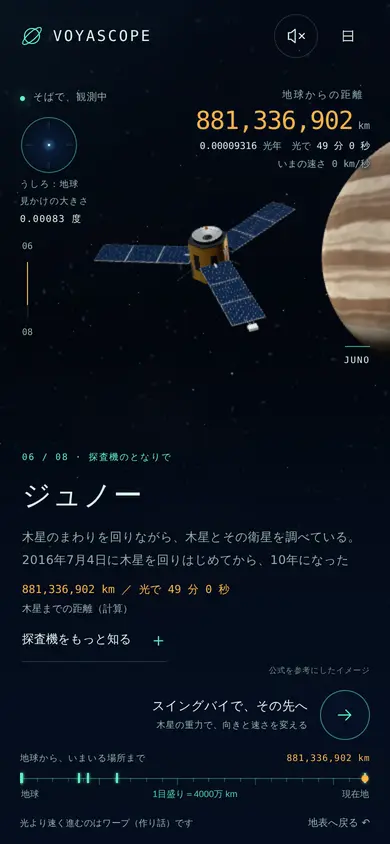
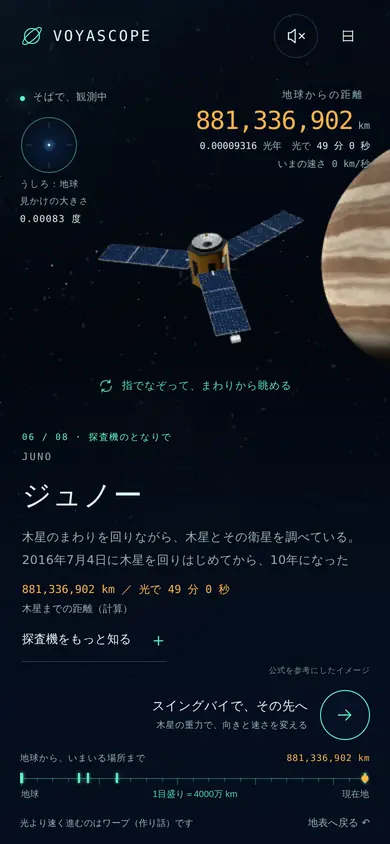
遠くを見る部屋の試作：スマホで名前に重ならない配置にし、そばで観測中は模型のまわりから眺められるようにした
オーナーの iPhone（Claude アプリの中・高さ約726px）の画面写真2枚と「そばで観測中のときは周辺から3Dを眺めるようにできる？」を受けて。

- スマホ
  - 着いた場所（天体・模型）は、上の距離の数字の下から説明の上までのあいだ（帯）に収める。低い画面では帯と説明を詰める
  - 黄色い線（章の目盛り）はスマホでは出さない。浮いていた英名の札はやめ、見出しと名前のあいだに1行で出す
  - 「ジェイムズ・ウェッブ宇宙望遠鏡」はスマホでは1行に縮める（PC は2行のまま）
  - 火星の望遠の窓は右はしに置き、下の文字も窓の右にそろえる。1光日の輪は少し小さくする
- そばで観測中
  - なぞる（PC はドラッグか ← → キー）と、模型（月・太陽・火星は天体、1光日はボイジャー1号）を中心にカメラが回る。回すほど少し引いて、模型の全体が帯に収まる
  - 火星では窓の中のローバーも回る。光（太陽の向き）は回さない
  - はじめて着いたときだけ案内を出す。なぞっても飛ばない（先へは「その先へ」）
  - 「その先へ」のボタンの丸をミントでゆっくり点滅させ、押すと角度を戻しながら航路に乗る（動きを減らす設定では点滅しない）
- PC：右下の文字（英名の札・案内・「公式を参考にしたイメージ」）を下のボタンから積む形にし、低いノート PC（高さ 720〜768）での重なりを直した
- 確かめたこと：スマホ 390×667・726・844 の8か所で、見出し・英名・名前と、模型・窓・黄色い線・輪が重ならない。模型のある5か所 × 7つの向きで模型が帯に収まる。PC 5サイズで右下が重ならない。8か所を順に（スマホ・PC）・動きを減らす設定。エラーなし、横のはみ出しなし
- 記録：docs/design/far-room-feel.md §7-8。写真：docs/screenshots/far-room-visual/merged-sp-4〜11・merged-pc-5・6

Claude-Session: https://claude.ai/code/session_018QcvrPpxiBmPj3b7sKfVgy

diff --git a/docs/design/far-room-visual-merged.html b/docs/design/far-room-visual-merged.html
@@ -91,7 +91,7 @@ svg.i { width: 20px; height: 20px; fill: none; stroke: currentColor; stroke-widt
 .rail-line { position: relative; width: 1px; height: 105px; background: var(--line); }
 .rail-line i { position: absolute; left: 0; top: 0; width: 1px; height: 0; background: var(--amber); }
 
-.scene-tag { position: absolute; left: 74%; top: 67%; display: flex; flex-direction: column; align-items: flex-start; font: 11px var(--mono); letter-spacing: 0.2em; color: var(--text); pointer-events: none; transition: opacity 0.4s; text-shadow: 0 1px 10px #050e1f; }
+.scene-tag { position: absolute; left: 74%; bottom: 250px; display: flex; flex-direction: column; align-items: flex-start; font: 11px var(--mono); letter-spacing: 0.2em; color: var(--text); pointer-events: none; transition: opacity 0.4s; text-shadow: 0 1px 10px #050e1f; }
 .scene-tag small { margin-top: 8px; font: 11px var(--body); letter-spacing: 0.06em; color: var(--dim); }
 .tag-line { width: 43px; height: 1px; margin-bottom: 14px; background: var(--mint); opacity: 0.65; }
 .journey.moving .scene-tag, .journey.rest .scene-tag { opacity: 0; }
@@ -133,8 +133,17 @@ svg.i { width: 20px; height: 20px; fill: none; stroke: currentColor; stroke-widt
 .footline { display: flex; align-items: center; justify-content: space-between; gap: 12px; }
 .footline p { margin: 0; font-size: 10px; color: var(--dim); }
 .footline button { font-size: 11px; color: var(--dim); }
-.model-note { position: absolute; right: var(--side); bottom: 204px; margin: 0; font-size: 9px; letter-spacing: 0.04em; color: var(--dim); opacity: 0; transition: opacity 0.4s; pointer-events: none; }
+.model-note { position: absolute; right: var(--side); bottom: 196px; margin: 0; font-size: 9px; letter-spacing: 0.04em; color: var(--dim); opacity: 0; transition: opacity 0.4s; pointer-events: none; }
 .journey.model-on .model-note { opacity: 0.75; } /* 探査機の模型が見えているあいだだけ */
+/* そばで観測中：ドラッグで周りから眺められることを知らせる（1回なぞったら出さない）。
+   PC の右下は、下のボタン（上の端が下から 186px）から上へ積む：注記 → この案内 → 英名の札。画面が低くても重ならない */
+.look-hint { position: absolute; left: 74%; bottom: 222px; display: flex; align-items: center; gap: 8px; margin: 0; font-size: 11px; letter-spacing: 0.06em; color: var(--mint); opacity: 0; transition: opacity 0.5s; pointer-events: none; text-shadow: 0 1px 8px #050e1f; }
+.look-hint svg { width: 16px; height: 16px; }
+.journey.encounter:not(.looked) .look-hint { opacity: 0.9; }
+.story-en { display: none; }
+/* 先へ進むボタン：そばで観測中は、ゆっくり脈打って「ここから先へ」と知らせる */
+@keyframes nudge { 0% { box-shadow: 0 0 0 0 rgba(94, 242, 194, 0.5); } 70% { box-shadow: 0 0 0 14px rgba(94, 242, 194, 0); } 100% { box-shadow: 0 0 0 0 rgba(94, 242, 194, 0); } }
+.journey.encounter .primary .arrow { border-color: var(--mint); animation: nudge 2.2s ease-out infinite; }
 .nogl { position: absolute; inset: 30% 10% auto; margin: 0; text-align: center; color: var(--dim); }
 
 /* 次の行き先の照準（3D の位置に重ねる） */
@@ -233,11 +242,16 @@ dialog .sub { margin: 0 0 14px; font-size: 12px; color: var(--dim); }
   .rear canvas { width: 58px; height: 58px; }
   .rear figcaption { font-size: 9px; }
   .rear figcaption b { font-size: 9.5px; }
-  .chapter-rail { left: 22px; top: 242px; gap: 10px; font-size: 9px; transition: opacity 0.4s; }
+  .chapter-rail { display: none; } /* 何番目かは、名前の上の「02 / 08」で分かる。名前と重ならないように出さない */
   .journey.lens-on .chapter-rail { opacity: 0; }
   .journey:not([data-mode="intro"]) .interaction-hint { display: none; }
   .rail-line { height: 56px; }
-  .scene-tag { left: auto; right: 20px; top: 41%; align-items: flex-end; font-size: 9px; letter-spacing: 0.12em; }
+  .scene-tag { display: none; } /* 英名は、名前の上の1行に出す（.story-en） */
+  .journey.encounter .story-en { display: block; margin-top: 6px; font: 10px/1.4 var(--mono); letter-spacing: 0.16em; color: var(--dim); }
+  .look-hint { left: 0; right: 0; top: calc(var(--band-bottom, 46%) - 26px); bottom: auto; justify-content: center; font-size: 10.5px; }
+  .journey.lens-on .look-hint { opacity: 0 !important; } /* 火星の望遠の窓の文字と重ならないように */
+  .journey.gate-on .look-hint { top: calc(var(--band-bottom, 46%) + 6px); } /* 1光日：輪の目盛りにかからないよう、輪と名前のあいだに */
+  .lens span { left: auto; right: 0; transform: translate(0, 8px); } /* 窓は右はしにあるので、文字は窓の右にそろえる（画面からはみ出さない） */
   .scene-tag small { display: none; }
   .tag-line { width: 25px; margin-bottom: 9px; }
   .story { left: 22px; right: 22px; width: auto; bottom: 194px; }
@@ -247,6 +261,8 @@ dialog .sub { margin: 0 0 14px; font-size: 12px; color: var(--dim); }
   .journey.encounter .story { bottom: 182px; }
   .journey.encounter .story h2 { margin: 10px 0; font-size: 29px; line-height: 1.4; letter-spacing: 0.025em; }
   .journey.encounter .story p { font-size: 12px; line-height: 1.9; }
+  .journey.encounter .story h2.fit { font-size: min(29px, calc((100vw - 44px) / 15.6)); white-space: nowrap; } /* ジェイムズ・ウェッブ宇宙望遠鏡（15文字）を1行に縮めて、説明が上へ伸びないように */
+  .story h2.fit .br-wide { display: none; }
   .journey[data-mode="end"] .story h2 { font-size: 34px; }
   .hero-meta { margin-top: 10px; font-size: 11px; line-height: 1.7; }
   .hero-meta small { font-size: 10px; }
@@ -291,6 +307,15 @@ dialog .sub { margin: 0 0 14px; font-size: 12px; color: var(--dim); }
   dialog { padding: 42px 22px 20px; }
   dialog h2 { font-size: 23px; }
   .fact { grid-template-columns: minmax(0, 1fr); }
+}
+/* 低いスマホ（アプリの中・ブラウザのバーが出ているとき）：説明を詰めて、着いた場所を見る場所を広げる */
+@media (max-width: 900px) and (max-height: 780px) {
+  .journey.encounter .story { bottom: 172px; }
+  .journey.encounter .story h2 { margin: 4px 0 6px; font-size: 25px; line-height: 1.35; }
+  .journey.encounter .story p { font-size: 11.5px; line-height: 1.75; }
+  .hero-meta { margin-top: 6px; font-size: 10.5px; line-height: 1.6; }
+  .hero-meta small { font-size: 9.5px; }
+  .detail-link { margin-top: 0; }
 }
 @media (max-width: 360px) {
   .story h2 { font-size: 38px; }
@@ -358,6 +383,7 @@ dialog .sub { margin: 0 0 14px; font-size: 12px; color: var(--dim); }
 
     <div class="story" id="story">
       <div class="eyebrow" id="eyebrow">A JOURNEY BEYOND / 光の旅</div>
+      <div class="story-en" id="story-en" aria-hidden="true"></div>
       <h2 id="hero-title">その先の、<br>まだ先へ。</h2>
       <p id="hero-text">光になって、地球の輪の外へ。<br>遠くで旅をつづける探査機に、会いにいこう。</p>
       <div class="hero-meta" id="hero-meta" hidden></div>
@@ -380,6 +406,7 @@ dialog .sub { margin: 0 0 14px; font-size: 12px; color: var(--dim); }
       <div class="footline"><p id="warp-note">光より速く進むのはワープ（作り話）です</p><button type="button" id="home">地表へ戻る ↶</button></div>
     </div>
     <p class="model-note">公式を参考にしたイメージ</p>
+    <p class="look-hint" id="look-hint" aria-hidden="true"><svg class="i" viewBox="0 0 24 24"><path d="M4 12a8 8 0 0 1 14-5.3M20 12a8 8 0 0 1-14 5.3M18 3v4h-4M6 21v-4h4"/></svg><span id="look-hint-text">ドラッグで、まわりから眺める</span></p>
   </section>
 
   <section class="atlas" id="ladder" aria-labelledby="ladder-title">
@@ -665,6 +692,7 @@ const reduceQuery = matchMedia("(prefers-reduced-motion: reduce)");
 let reduce = reduceQuery.matches;
 const coarse = matchMedia("(pointer: coarse)").matches;
 if (!coarse) $("hint-text").innerHTML = "ホイールか ↑ キーで自由に飛ぶ<small>↓ キーで地球の方へ。Home で地表へ</small>";
+$("look-hint-text").textContent = coarse ? "指でなぞって、まわりから眺める" : "ドラッグか ← → キーで、まわりから眺める";
 const say = (t) => { $("announcer").textContent = t; };
 
 // 距離のはしご（Codex 案の形）
@@ -712,13 +740,17 @@ function frameInfo() {
   const t = smooth01((aspect - 0.62) / (1.25 - 0.62)); // 0 = 縦長（スマホ）、1 = 横長（PC）
   const vfov = lerp(TUNE.FOV_PORTRAIT, TUNE.FOV_LANDSCAPE, t);
   const tv = Math.tan((vfov * DEG) / 2), th = tv * aspect;
+  // 縦長の画面：着いた場所（天体・機体）を、上の数字（地球からの距離）の下から、下の説明（名前・文）の上までのあいだに収める。
+  // 画面が低いとき（アプリの中・ブラウザのバーが出ているとき）は、小さく・上に置いて、名前に重ならないようにする
+  const bandTop = 150, bandBottom = Math.max(bandTop + 90, H - (H < 781 ? 400 : 440));
+  const band = bandBottom - bandTop, cy = bandTop + band / 2, rPx = Math.min(0.58 * (W / 2), band * 0.5);
   return {
-    W, H, aspect, t, vfov, tv, th, portrait: t < 0.5,
+    W, H, aspect, t, vfov, tv, th, portrait: t < 0.5, bandTop, bandBottom,
     // 着いたときに、見せたいもの（天体・機体）を置く画面の場所（中央が 0、右と上が +1）と見かけの半径
-    focus: { x: lerp(0.04, 0.4, t), y: lerp(0.36, 0.03, t) },
+    focus: { x: lerp(0.04, 0.4, t), y: lerp(1 - (2 * cy) / H, 0.03, t) },
     orbit: { x: lerp(1.8, 0.85, t), y: lerp(0.12, 0.05, t) }, // スイングバイの弧の上：天体の中心は画面の右の外。縁だけが右に見える
     around: { x: lerp(0.03, 0.3, t), y: lerp(0.3, 0.03, t) }, // 回りこむ弧の上：機体を見つづける
-    aR: lerp(Math.atan(0.58 * th), Math.atan(0.5 * tv), t),
+    aR: lerp(Math.atan((rPx / (W / 2)) * th), Math.atan(0.5 * tv), t),
     startPitch: lerp(14, 3, t) * DEG, // 出発のとき、地平線を見せるために下を向く
   };
 }
@@ -838,7 +870,7 @@ function lookAtNdc(camPos, target, x, y, out) {
   return out.multiply(qTmp.setFromAxisAngle(AX, -Math.atan(y * FI.tv)));
 }
 function encounterQuat(camPos, st, out) {
-  const f = st.lk.kind === "gate" ? { x: 0, y: FI.portrait ? 0.14 : 0.02 } : FI.focus;
+  const f = st.lk.kind === "gate" ? { x: 0, y: FI.portrait ? FI.focus.y : 0.02 } : FI.focus; // 縦長：上の数字と下の説明のあいだ
   return lookAtNdc(camPos, st.focus, f.x, f.y, out);
 }
 // 弧の上の向き。スイングバイは天体を画面の右はしに置いたまま回る（縁が流れ、空が回る）。回りこむときは機体を見つづける
@@ -1724,7 +1756,7 @@ if (renderer) {
   // 火星の地面と、パーサヴィアランス（公式を参考にしたイメージ）。太陽の光が、地面に影を落とす
   rover = holdModel(CRAFT.MODELS.perseverance(THREE, kit), 1.45);
   const roverInner = rover.userData.inner, half = (roverInner.userData.normalizedSize[1] * rover.scale.y) / 2;
-  rover.rotation.y = roverInner.userData.pose[1];
+  rover.rotation.y = rover.userData.spin = roverInner.userData.pose[1];
   lensScene.add(rover);
   const soil = new THREE.MeshStandardMaterial({ color: 0x7c4128, roughness: 1, metalness: 0 });
   soil.color.convertSRGBToLinear();
@@ -1746,6 +1778,7 @@ if (renderer) {
 // 航路と景色の置き場所を、画面の形に合わせて作り直す
 function placeScene() {
   FI = frameInfo();
+  journey.style.setProperty("--band-bottom", `${FI.bandBottom}px`);
   ROUTE = buildRoute();
   if (!renderer) return;
   // 航路の点
@@ -1778,9 +1811,15 @@ function placeScene() {
       inner.userData.spin = inner.userData.spin ?? 0;
       holder.quaternion.copy(q).multiply(new THREE.Quaternion().setFromEuler(e.set(...(lk.mPose ?? inner.userData.pose))));
       st.model = holder; st.objects.push(holder);
+      // 回りこんで見るときの中心（模型）と、引く量（どの向きから見ても、模型の全体が着いたときの円に収まるように）
+      st.pivot = holder.position;
+      const [sx, sy, sz] = inner.userData.normalizedSize;
+      st.lookOut = Math.max(1, 0.5 * Math.hypot(sx, sy, sz));
+    } else {
+      st.pivot = st.focus; st.lookOut = 1; // 天体だけ：球なので、どの向きでも同じ大きさ
     }
     if (lk.kind === "gate") {
-      gate.position.copy(st.center); gate.scale.setScalar(lk.R);
+      gate.position.copy(st.center); gate.scale.setScalar(lk.R * (FI.portrait ? 0.72 : 1)); // 縦長：輪を小さくして、上の数字と下の名前にかからないようにする
       gate.quaternion.setFromUnitVectors(AZ, st.normal);
       st.objects.push(gate);
     }
@@ -1793,6 +1832,7 @@ let s = 0; // 航路の上の位置（3D の単位）
 let v = 0; // 速さ（単位/秒。+ が遠くへ）
 let trip = null; // 案内つきの飛行 { from, to, t0, dur, target }
 let pointer = null;
+const look = { yaw: 0, pitch: 0, yawTo: 0, st: null }; // そばで観測中：ドラッグで回りこんで見る角度（ラジアン。yawTo はキーで回すときの行き先）と、その場所
 let snap = null; // 吸い寄せている場所
 let kickFov = 0;
 let lastT = performance.now(), raf = 0, visible = true, started = false;
@@ -1833,7 +1873,7 @@ function announce(st) {
 // いまの様子：intro（地表の近く）／encounter（場所のそば）／swing（弧の上）／travel（案内つきで飛行中）／free（自由に飛行中）／rest（途中で止まっている）／end
 function modeNow() {
   const sw = ROUTE.stops.find((st) => st.lk.kind !== "gate" && s > st.sE + 0.6 && s < st.sX + 1);
-  if (trip || pointer || Math.abs(v) > 0.5) return { mode: sw ? "swing" : trip ? "travel" : "free", st: sw };
+  if (trip || (pointer && !pointer.look) || Math.abs(v) > 0.5) return { mode: sw ? "swing" : trip ? "travel" : "free", st: sw };
   if (s < 0.3) return { mode: "intro" };
   if (s > ROUTE.len - 0.3) return { mode: "end" };
   const st = ROUTE.stops.find((x) => Math.abs(s - x.sE) < 0.6);
@@ -1844,13 +1884,29 @@ function modeNow() {
 // ---------- 操作：指・マウス・ホイール・キー（Claude 案と同じ） ----------
 viewport.addEventListener("pointerdown", (e) => {
   if (e.pointerType === "mouse" && e.button !== 0) return;
-  cancelTrip(); snap = null;
-  pointer = { id: e.pointerId, y: e.clientY };
+  const m = modeNow();
+  if (m.mode === "encounter" && renderer) {
+    // そばで観測中：なぞると、見せたもののまわりを回りこんで見る（ここでは飛ばない。先へは「その先へ」のボタンで）
+    pointer = { id: e.pointerId, x: e.clientX, y: e.clientY, look: true };
+    look.st = m.st;
+    journey.classList.add("looked");
+  } else {
+    cancelTrip(); snap = null;
+    pointer = { id: e.pointerId, y: e.clientY };
+  }
   viewport.setPointerCapture(e.pointerId);
   wake();
 });
 viewport.addEventListener("pointermove", (e) => {
   if (!pointer || pointer.id !== e.pointerId) return;
+  if (pointer.look) {
+    const dx = e.clientX - pointer.x, dy = e.clientY - pointer.y;
+    pointer.x = e.clientX; pointer.y = e.clientY;
+    look.yaw = look.yawTo = look.yaw - dx * 0.008; // 右へなぞると、右へ回って見える
+    look.pitch = clamp(look.pitch - dy * 0.006, -1.0, 1.0); // 下へなぞると、上から見下ろす
+    wake();
+    return;
+  }
   const dy = pointer.y - e.clientY; pointer.y = e.clientY;
   push(dy * TUNE.SWIPE_GAIN);
 });
@@ -1870,6 +1926,8 @@ document.addEventListener("keydown", (e) => {
   const r = journey.getBoundingClientRect();
   if (r.bottom < innerHeight * 0.5 || r.top > innerHeight * 0.5) return;
   const k = { ArrowUp: TUNE.KEY_PUSH, ArrowDown: -TUNE.KEY_PUSH, PageUp: TUNE.PAGE_PUSH, PageDown: -TUNE.PAGE_PUSH }[e.key];
+  const turn = { ArrowLeft: 0.26, ArrowRight: -0.26 }[e.key];
+  if (turn) { const m = modeNow(); if (m.mode === "encounter" && renderer) { e.preventDefault(); look.st = m.st; look.yawTo += turn; journey.classList.add("looked"); wake(); } return; }
   if (k) { e.preventDefault(); if (reduce) keyStep(Math.sign(k)); else push(k); }
   else if (e.key === "Home") { e.preventDefault(); startTrip(0, "home"); }
 });
@@ -2070,6 +2128,7 @@ function setStory(mode, st) {
   const meta = $("hero-meta"), ev = $("hero-event"), det = $("details");
   if (mode === "moving" || mode === "travel" || mode === "free" || mode === "swing" || mode === "rest") return;
   meta.hidden = ev.hidden = det.hidden = true;
+  $("hero-title").classList.toggle("fit", mode === "encounter" && st.pl.id === "jwst"); // スマホでは1行に縮めて収める（PC は2行のまま）
   if (mode === "intro") {
     $("eyebrow").textContent = "A JOURNEY BEYOND / 光の旅";
     $("hero-title").innerHTML = "その先の、<br>まだ先へ。";
@@ -2083,13 +2142,14 @@ function setStory(mode, st) {
   } else if (mode === "encounter") {
     const pl = st.pl, n = String(st.i + 1).padStart(2, "0");
     $("eyebrow").textContent = `${n} / ${String(PLACES.length).padStart(2, "0")} · ${pl.kind === "probe" ? "探査機のとなりで" : pl.kind === "light-day" ? "光の1日" : "くらべる目安"}`;
-    $("hero-title").innerHTML = pl.id === "jwst" ? "ジェイムズ・ウェッブ<br>宇宙望遠鏡" : esc(pl.name);
+    $("hero-title").innerHTML = pl.id === "jwst" ? 'ジェイムズ・ウェッブ<br class="br-wide">宇宙望遠鏡' : esc(pl.name);
     $("hero-text").textContent = pl.text;
     meta.hidden = false;
     meta.innerHTML = `${esc(distText(pl))} ／ 光で ${esc(lightTime(pl.km / C, pl.approx))}<small>${esc(pl.how)}</small>`;
     if (pl.event) { ev.hidden = false; ev.textContent = pl.event; }
     det.hidden = !CARDS[pl.id];
     $("scene-name").textContent = st.lk.en;
+    $("story-en").textContent = st.lk.en;
     $("scene-caption").textContent = pl.kind === "probe" ? "いま、あなたのすぐそばに。" : "光の旅の、ひとつの目印。";
   }
 }
@@ -2231,7 +2291,7 @@ function frame(now) {
   $("rear").dataset.off = String(rearA <= 0);
   if (rearA > 0) { drawRear(km, rearA); $("rear-size").textContent = angleText((2 * Math.asin(EARTH_R / (EARTH_R + km))) / DEG); }
 
-  const moving = s !== before || v !== 0 || !!trip || !!pointer || kickFov > 0.01;
+  const moving = s !== before || v !== 0 || !!trip || !!pointer || kickFov > 0.01 || look.yawTo !== look.yaw;
   if (moving) idleFrames = 0; else idleFrames++;
   // 止まっているあいだは、ゆっくり回る模型や星のまたたきのために1コマおきに描く（動きを減らす設定では描くのをやめる）
   if (renderer && (moving || idleFrames < 3 || (!reduce && idleFrames % 2 === 0))) render(now, dt, p, km, warp, m);
@@ -2244,7 +2304,29 @@ function render(now, dt, p, km, warp, m) {
   prevPos.copy(camPos);
   // カメラ：航路の上。向きは「進む向き」と「着いた場所を見る向き」を混ぜ、弧では傾ける。ワープでは視野が広がる
   cameraQuat(s, camPos, qTarget);
-  if (!started || reduce) camera.quaternion.copy(qTarget);
+  // そばで観測中の「回りこんで見る」：見せたもの（模型。なければ天体）を中心に、カメラごと回す（見せたものは画面の同じ場所のまま）。
+  // 離れるとき（その先へ・はじいたとき）は、角度を 0 に戻しながら航路に乗る
+  qBase.copy(qTarget);
+  const here = m.mode === "encounter" ? m.st : null;
+  if (look.st && look.st !== here) {
+    const k = reduce ? 0 : Math.exp(-dt / 0.22);
+    look.yaw = look.yawTo = look.yaw * k; look.pitch *= k;
+    if (Math.abs(look.yaw) + Math.abs(look.pitch) < 1e-3) { look.yaw = look.yawTo = look.pitch = 0; look.st = null; }
+  } else if (look.st && look.yawTo !== look.yaw) {
+    look.yaw += (look.yawTo - look.yaw) * (reduce ? 1 : 1 - Math.exp(-dt / 0.12)); // キーで回すときは、なめらかに
+    if (Math.abs(look.yawTo - look.yaw) < 1e-4) look.yaw = look.yawTo;
+  }
+  if (look.st && (look.yaw || look.pitch)) {
+    const F = look.st.pivot;
+    qLookY.setFromAxisAngle(look.st.axis, look.yaw);
+    vRight.set(1, 0, 0).applyQuaternion(qTarget).applyQuaternion(qLookY);
+    qLookP.setFromAxisAngle(vRight, look.pitch).multiply(qLookY);
+    // 回すほど少し引く（模型の対角線が見えても、名前の上に出ない）
+    const out = 1 + (look.st.lookOut - 1) * smooth01((Math.abs(look.yaw) + Math.abs(look.pitch)) / 0.5);
+    camPos.sub(F).multiplyScalar(out).applyQuaternion(qLookP).add(F);
+    qTarget.premultiply(qLookP);
+  }
+  if (!started || reduce || (look.st && look.st === here)) camera.quaternion.copy(qTarget); // 回りこんで見ているあいだは、位置と向きを一緒に動かす（見せたものが画面の同じ場所のまま）
   else camera.quaternion.slerp(qTarget, 1 - Math.exp(-dt / 0.07));
   started = true;
   kickFov = Math.max(0, kickFov - dt * 1.6);
@@ -2320,7 +2402,7 @@ function render(now, dt, p, km, warp, m) {
   keyLight.castShadow = !!nearM;
   if (nearM) {
     const R = nearM.scale.x, sc = keyLight.shadow.camera;
-    tmpV.copy(KEY_DIR).applyQuaternion(camera.quaternion);
+    tmpV.copy(KEY_DIR).applyQuaternion(qBase); // 回りこんで見ても、光（太陽）の向きは変えない
     keyLight.target.position.copy(nearM.position); keyLight.target.updateMatrixWorld();
     keyLight.position.copy(nearM.position).addScaledVector(tmpV, 6 * R);
     sc.left = sc.bottom = -1.5 * R; sc.right = sc.top = 1.5 * R; sc.near = 0.5 * R; sc.far = 9 * R; sc.updateProjectionMatrix();
@@ -2350,6 +2432,7 @@ function render(now, dt, p, km, warp, m) {
   const lens = $("lens"), line = $("lens-line"), pin = $("lens-pin");
   lens.classList.toggle("on", lensOn); line.classList.toggle("on", lensOn); pin.classList.toggle("on", lensOn);
   journey.classList.toggle("lens-on", lensOn);
+  journey.classList.toggle("gate-on", m.mode === "encounter" && m.st?.lk.kind === "gate");
   // 「公式を参考にしたイメージ」：探査機の模型が見えているあいだだけ出す
   const mst = m.st;
   journey.classList.toggle("model-on", lensOn || (!!mst?.lk.model && (m.mode === "encounter" || m.mode === "swing" || m.mode === "rest")));
@@ -2358,8 +2441,10 @@ function render(now, dt, p, km, warp, m) {
     tmpV.copy(per.center).project(camera);
     const mx = (tmpV.x * 0.5 + 0.5) * FI.W, my = (-tmpV.y * 0.5 + 0.5) * FI.H;
     const mr = (per.lk.R / camera.position.distanceTo(per.center)) / Math.tan((camera.fov * DEG) / 2) * (FI.H / 2);
-    const lr = FI.portrait ? 58 : 92;
-    const lx = clamp(mx - mr * (FI.portrait ? 0.95 : 1.35), lr + 12, FI.W - lr - 12), ly = clamp(my + mr * (FI.portrait ? 0.42 : 0.45), lr + 90, FI.portrait ? FI.H * 0.44 - lr * 0.2 : FI.H - lr - 230);
+    const lr = FI.portrait ? clamp((FI.bandBottom - FI.bandTop) * 0.36, 44, 58) : 92;
+    // 縦長：右がわ、上の数字（約175px まで）の下から、説明より上（窓の下の文字の分もあける）。横長：火星の左下
+    const lx = FI.portrait ? FI.W - lr - 14 : clamp(mx - mr * 1.35, lr + 12, FI.W - lr - 12);
+    const ly = FI.portrait ? clamp(my + mr * 0.42, 176 + lr, Math.max(176 + lr, FI.bandBottom - lr - 24)) : clamp(my + mr * 0.45, lr + 90, FI.H - lr - 230);
     lens.style.width = lens.style.height = `${2 * lr}px`;
     lens.style.transform = `translate3d(${lx - lr}px, ${ly - lr}px, 0)`;
     const px = mx - mr * 0.3, py = my + mr * 0.25;
@@ -2368,7 +2453,9 @@ function render(now, dt, p, km, warp, m) {
     line.style.width = `${Math.max(0, dd - lr - 6)}px`;
     line.style.transform = `translate3d(${lx + Math.cos(ang) * lr}px, ${ly + Math.sin(ang) * lr}px, 0) rotate(${ang}rad)`;
     lensRect = { x: lx - lr, y: ly - lr, w: 2 * lr };
-    if (!reduce) rover.rotation.y += dt * 0.12;
+    // 窓の中のローバーは、ゆっくり回る。なぞると、その分だけ回して見られる
+    if (!reduce) rover.userData.spin += dt * 0.12;
+    rover.rotation.y = rover.userData.spin + (look.st === per ? look.yaw : 0);
   }
 
   // 描く
@@ -2395,6 +2482,7 @@ function render(now, dt, p, km, warp, m) {
 }
 const tmpQ = renderer ? new THREE.Quaternion() : null;
 const KEY_DIR = renderer ? new THREE.Vector3(-3, 5, 7).normalize() : null; // 主光の向き（カメラから見て左上の前）
+const qBase = renderer ? new THREE.Quaternion() : null, qLookY = renderer ? new THREE.Quaternion() : null, qLookP = renderer ? new THREE.Quaternion() : null, vRight = renderer ? new THREE.Vector3() : null;
 function wake() { idleFrames = 0; if (!raf && visible && !document.hidden) { lastT = performance.now(); raf = requestAnimationFrame(frame); } }
 
 new ResizeObserver(() => size()).observe(journey);
